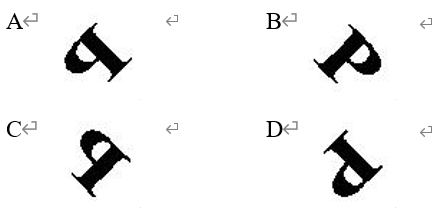
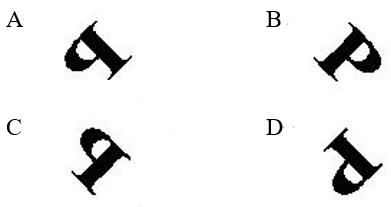
Fix Optics Ch.3 quiz content and figures for nine MCQ items.
Restore missing stems and answer options, add Ch.3.4 Q4 and Ch.3.6 Q2 figures, and refresh Ch.3.1 Q5-2 crop in the hub quiz package.

diff --git a/public/optics-ch3-quiz/js/quiz.bundle.js b/public/optics-ch3-quiz/js/quiz.bundle.js
@@ -1,5 +1,5 @@
 (() => {
-  // ../Optics/Quiz/optics-ch3/js/quizData.js
+  // ../js/quizData.js
   var QUIZ_SECTIONS = [
     {
       "id": "reflection",
@@ -40,10 +40,10 @@
     { "id": "ch32-f01", "section": "refraction-snells-law", "difficulty": "Applied", "stem": "The figure shows a light ray passing through three media X, Y and Z. Which of the following statements about the three media are correct? (1)Z is optically denser than X. (2)Light travels the fastest in X. (3)Y has the greatest refractive index.", "options": [{ "key": "A", "text": "(1) and (2) only" }, { "key": "B", "text": "(1) and (3) only" }, { "key": "C", "text": "(2) and (3) only" }, { "key": "D", "text": "(1), (2) and (3)" }], "answer": "D", "hint": "Let i1, i2 and r1, r2 be the angles of incidence and angles of refractions in the 1st and the 2nd refraction. r1 = i2 1st refraction: nX sin i1 = nY sin r1 2nd refraction: nZ sin r2 = nY sin i2 = nY sin r1 = nX sin i1 i1 r2 sin i1 sin r2 nX nZ \u2234 (1) is correct. i1 r1 sin i1 sin r1 nX nY The refractive index of X is the", "image": { "src": "./assets/ch32-f01-fig.png", "alt": "Diagram for ch32-f01", "caption": "Fig \xB7 ch32-f01" } },
     { "id": "ch32-f02", "section": "refraction-snells-law", "difficulty": "Applied", "stem": "The figure shows a light ray refracted at the boundary between medium X and medium Y. The refractive index of X is 1.77. What is the refractive index of Y?", "options": [{ "key": "A", "text": "1.16" }, { "key": "B", "text": "1.53" }, { "key": "C", "text": "1.70" }, { "key": "D", "text": "2.05" }], "answer": "B", "hint": "What is the refractive index of Y?", "image": { "src": "./assets/ch32-f02-fig.png", "alt": "Diagram for ch32-f02", "caption": "Fig \xB7 ch32-f02" } },
     { "id": "ch32-f03", "section": "refraction-snells-law", "difficulty": "Standard", "stem": "Which of the following are examples of refraction? (1)A chopstick appears bent when dipped in water. (2)A distorted image of a tree is observed on a ruffled water surface. (3)A goldfish in a tank appears nearer and bigger than it really is.", "options": [{ "key": "A", "text": "(1) and (2) only" }, { "key": "B", "text": "(1) and (3) only" }, { "key": "C", "text": "(2) and (3) only" }, { "key": "D", "text": "(1), (2) and (3)" }], "answer": "B", "hint": "Which of the following are examples of refraction? (1)A chopstick appears bent when dipped in water. (2)A distorted image of a tree is observed on a ruffled water surface. (3)A gol" },
-    { "id": "ch32-f04", "section": "refraction-snells-law", "difficulty": "Applied", "stem": "What is the refractive index of ?", "options": [{ "key": "A", "text": "Option A" }, { "key": "B", "text": "Option B" }, { "key": "C", "text": "Option C" }, { "key": "D", "text": "Option D" }], "answer": "A", "hint": "What is the refractive index of ?", "image": { "src": "./assets/ch32-f04-fig.png", "alt": "Diagram for ch32-f04", "caption": "Fig \xB7 ch32-f04" } },
+    { "id": "ch32-f04", "section": "refraction-snells-law", "difficulty": "Applied", "stem": "The following figure shows a light ray travelling from medium X to a vacuum. What is the refractive index of medium X?", "options": [{ "key": "A", "text": "sin \u03B2 / cos \u03B8" }, { "key": "B", "text": "cos \u03B8 / sin \u03B2" }, { "key": "C", "text": "sin \u03B8 / sin \u03B2" }, { "key": "D", "text": "cos \u03B2 / sin \u03B8" }], "answer": "A", "hint": "What is the refractive index of ?", "image": { "src": "./assets/ch32-f04-fig.png", "alt": "Diagram for ch32-f04", "caption": "Fig \xB7 ch32-f04" } },
     { "id": "ch32-f05", "section": "refraction-snells-law", "difficulty": "Standard", "stem": "The figure shows a light ray travelling from medium Y to medium X. What is the angle of refraction?", "options": [{ "key": "A", "text": "10.5" }, { "key": "B", "text": "18.1" }, { "key": "C", "text": "21.5" }, { "key": "D", "text": "26.1" }], "answer": "C", "hint": "What is the angle of refraction?", "image": { "src": "./assets/ch32-f05-fig.png", "alt": "Diagram for ch32-f05", "caption": "Fig \xB7 ch32-f05" } },
     { "id": "ch32-f06", "section": "refraction-snells-law", "difficulty": "Applied", "stem": "A ray of light travels from medium X to medium Y as shown. The speed of light in air and medium X are 3 \xD7 10\u2078 m s\u207B\xB9 and 2.5 \xD7 10\u2078 m s\u207B\xB9 respectively. Find the refractive index of medium Y.", "options": [{ "key": "A", "text": "1.27" }, { "key": "B", "text": "1.29" }, { "key": "C", "text": "1.52" }, { "key": "D", "text": "1.83" }], "answer": "D", "hint": "Find the refractive index of . 4025medium Xmedium Y4025medium Xmedium Y", "image": { "src": "./assets/ch32-f06-fig.png", "alt": "Diagram for ch32-f06", "caption": "Fig \xB7 ch32-f06" } },
-    { "id": "ch32-f07", "section": "refraction-snells-law", "difficulty": "Foundation", "stem": "Which of the following statements about the laws of refraction is/are correct? (1)The angle of refraction r is always equal to the angle of incidence i. (2)The ratio of the sine of the angle of incidence i to the sine of the angle of refraction r is always equal to 1, i.e. . (3)The incident ray, the refracted ray and the normal all lie in the same plane.", "options": [{ "key": "A", "text": "(3) only" }, { "key": "B", "text": "(1) and (2) only" }, { "key": "C", "text": "(2) and (3) only" }, { "key": "D", "text": "(1), (2) and (3)" }], "answer": "A", "hint": "Which of the following statements about the laws of refraction is/are correct? (1)The angle of refraction r is always equal to the angle of incidence i. (2)The ratio of the sine of" },
+    { "id": "ch32-f07", "section": "refraction-snells-law", "difficulty": "Foundation", "stem": "Which of the following statements about the laws of refraction is/are correct? (1)The angle of refraction r is always equal to the angle of incidence i. (2)The ratio of the sine of the angle of incidence i to the sine of the angle of refraction r is always equal to 1, i.e. sin i / sin r = 1. (3)The incident ray, the refracted ray and the normal all lie in the same plane.", "options": [{ "key": "A", "text": "(3) only" }, { "key": "B", "text": "(1) and (2) only" }, { "key": "C", "text": "(2) and (3) only" }, { "key": "D", "text": "(1), (2) and (3)" }], "answer": "A", "hint": "Which of the following statements about the laws of refraction is/are correct? (1)The angle of refraction r is always equal to the angle of incidence i. (2)The ratio of the sine of" },
     { "id": "ch32-f08", "section": "refraction-snells-law", "difficulty": "Standard", "stem": "Three light rays enter an air bubble in water. C is the centre of the bubble. Which of the paths shown below is/are correct?", "options": [{ "key": "A", "text": "(2) only" }, { "key": "B", "text": "(1) and (2) only" }, { "key": "C", "text": "(1) and (3) only" }, { "key": "D", "text": "(1), (2) and (3)" }], "answer": "B", "hint": "Three light rays enter an air bubble in water. C is the centre of the bubble. Which of the paths shown below is/are correct? water air water air", "image": { "src": "./assets/ch32-f08-fig.png", "alt": "Diagram for ch32-f08", "caption": "Fig \xB7 ch32-f08" } },
     { "id": "ch32-f09", "section": "refraction-snells-law", "difficulty": "Standard", "stem": "The figure below shows the apparent position of a goldfish as seen by an observer above water. Where is the actual position of the goldfish?", "options": [{ "key": "A", "text": "Option A" }, { "key": "B", "text": "Option B" }, { "key": "C", "text": "Option C" }, { "key": "D", "text": "Option D" }], "answer": "D", "hint": "Where is the actual position of the goldfish? observer's eyeapparent position of goldfishobserver's eyeapparent position of goldfish observer's eye apparent position of goldfish ob", "image": { "src": "./assets/ch32-f09-fig.png", "alt": "Diagram for ch32-f09", "caption": "Fig \xB7 ch32-f09" } },
     { "id": "ch32-f10", "section": "refraction-snells-law", "difficulty": "Foundation", "stem": "Which of the following statements about this phenomenon is/are correct? (1)White light is composed of a mixture of colours. (2)Different colours of light travel at different speeds in glass. (3)Green light is refracted more than red light in passing through the prism.", "options": [{ "key": "A", "text": "(1) only" }, { "key": "B", "text": "(1) and (2) only" }, { "key": "C", "text": "(2) and (3) only" }, { "key": "D", "text": "(1), (2) and (3)" }], "answer": "D", "hint": "White light is composed of a mixture of coloured lights. A beam of white light is dispersed into lights of different colours when it passes through a glass prism as lights of different colours travel at different speeds in glass. \u2234 (1) and (2) are correct. Green light is refracted more than red light in passing through" },
@@ -59,8 +59,8 @@
     { "id": "ch33-t10", "section": "total-internal-reflection", "difficulty": "Applied", "stem": "As shown below, a small fish hides under the centre of a floating circular dish with a diameter of 2 m. If the fish moves vertically downwards from the water surface, how far can it move down the water before somebody above the water can see it? Given: refractive index of water = 1.33", "options": [{ "key": "A", "text": "0.53 m" }, { "key": "B", "text": "0.66 m" }, { "key": "C", "text": "0.88 m" }, { "key": "D", "text": "1.14 m" }], "answer": "C", "hint": "Light from the fish is totally internally reflected when the angle of incidence is larger than the critical angle. nw sin w= na sin a 1.33 sin C = 1 sin 90 Let d be the maximum distance that the fish can move down before somebody above the water can see it. tan 48.8 = d = 0.88 m", "image": { "src": "./assets/ch33-t10-fig.png", "alt": "Diagram for ch33-t10", "caption": "Fig \xB7 ch33-t10" } },
     { "id": "ch34-c01", "section": "convex-lens", "difficulty": "Applied", "stem": "Which of the following statements about lens L shown in the figure below is/are correct? (1)Lens L is a convex lens. (2)Lens L has only one principal focus. (3)The focal length of lens L equals distance d.", "options": [{ "key": "A", "text": "(1) only" }, { "key": "B", "text": "(3) only" }, { "key": "C", "text": "(1) and (2) only" }, { "key": "D", "text": "(1), (2) and (3)" }], "answer": "A", "hint": "Which of the following statements about lens L shown in the figure below is/are correct? Ld Ld d d (1)Lens L is a . (2)Lens L has only one principal focus. (3)The focal length of l", "image": { "src": "./assets/ch34-c01-fig.png", "alt": "Diagram for ch34-c01", "caption": "Fig \xB7 ch34-c01" } },
     { "id": "ch34-c02", "section": "convex-lens", "difficulty": "Standard", "stem": "In the figure below, lens L is a convex lens and F is its principal focus. Which of the rays is wrongly drawn?", "options": [{ "key": "A", "text": "P" }, { "key": "B", "text": "Q" }, { "key": "C", "text": "R" }, { "key": "D", "text": "S" }], "answer": "A", "hint": "FLPQRS FLPQRS", "image": { "src": "./assets/ch34-c02-fig.png", "alt": "Diagram for ch34-c02", "caption": "Fig \xB7 ch34-c02" } },
-    { "id": "ch34-c03", "section": "convex-lens", "difficulty": "Applied", "stem": "An object is away from a . The focal length of the lens is . The image formed is", "options": [{ "key": "A", "text": "real, erect and magnified." }, { "key": "B", "text": "virtual, inverted and diminished." }, { "key": "C", "text": "real, inverted and magnified." }, { "key": "D", "text": "virtual, erect and magnified." }], "answer": "D", "hint": "An object is away from a . The focal length of the lens is . The image formed is", "image": { "src": "./assets/ch34-c03-fig.png", "alt": "Diagram for ch34-c03", "caption": "Fig \xB7 ch34-c03" } },
-    { "id": "ch34-c04", "section": "convex-lens", "difficulty": "Standard", "stem": "P is an emergent ray from a lens as shown below. F and F' are the principal foci of the lens. Which of the following rays is a possible incident ray?", "options": [{ "key": "A", "text": "Ray w" }, { "key": "B", "text": "Ray x" }, { "key": "C", "text": "Ray y" }, { "key": "D", "text": "Ray z" }], "answer": "A", "hint": "Which of the following rays is a possible incident ray?" },
+    { "id": "ch34-c03", "section": "convex-lens", "difficulty": "Applied", "stem": "An object is 10 cm away from a convex lens. The focal length of the lens is 15 cm. The image formed is", "options": [{ "key": "A", "text": "real, erect and magnified." }, { "key": "B", "text": "virtual, inverted and diminished." }, { "key": "C", "text": "real, inverted and magnified." }, { "key": "D", "text": "virtual, erect and magnified." }], "answer": "D", "hint": "An object is away from a . The focal length of the lens is . The image formed is", "image": { "src": "./assets/ch34-c03-fig.png", "alt": "Diagram for ch34-c03", "caption": "Fig \xB7 ch34-c03" } },
+    { "id": "ch34-c04", "section": "convex-lens", "difficulty": "Standard", "stem": "P is an emergent ray from a lens as shown below. F and F' are the principal foci of the lens. Which of the following rays is a possible incident ray?", "options": [{ "key": "A", "text": "Ray w" }, { "key": "B", "text": "Ray x" }, { "key": "C", "text": "Ray y" }, { "key": "D", "text": "Ray z" }], "answer": "A", "hint": "Which of the following rays is a possible incident ray?", "image": { "src": "./assets/ch34-c04-fig.png", "alt": "Diagram for ch34-c04", "caption": "Fig \xB7 ch34-c04" } },
     { "id": "ch34-c05", "section": "convex-lens", "difficulty": "Foundation", "stem": "Which of the following statements about the image formed by a is/are correct? (1)If the image is virtual, it must be erect. (2)If the image is real, it can be either erect or inverted. (3)If the image is real, it can be either magnified or diminished.", "options": [{ "key": "A", "text": "(1) only" }, { "key": "B", "text": "(1) and (3) only" }, { "key": "C", "text": "(2) and (3) only" }, { "key": "D", "text": "(1), (2) and (3)" }], "answer": "B", "hint": "Which of the following statements about the image formed by a is/are correct? (1)If the image is virtual, it must be erect. (2)If the image is real, it can be either erect or inver" },
     { "id": "ch34-c06", "section": "convex-lens", "difficulty": "Applied", "stem": "Which of the following statements is/are correct? (1)The lens is a . (2)If the lens is moved further away from the object, the image will become smaller. (3)If the lens is replaced by the same type of lens with a shorter focal length, the image will become smaller.", "options": [{ "key": "A", "text": "(1) only" }, { "key": "B", "text": "(1) and (2) only" }, { "key": "C", "text": "(2) and (3) only" }, { "key": "D", "text": "(1), (2) and (3)" }], "answer": "D", "hint": "The image is real as it can be captured on a screen. Only a can form a magnified/real image. A magnified real image is formed when the object distance lies between f and 2f, where f is the focal length of the lens." },
     { "id": "ch34-c07", "section": "convex-lens", "difficulty": "Standard", "stem": "If F and F' are the principal foci of a convex lens, which of the following ray diagrams is/are incorrect? (1) (2) (3)", "options": [{ "key": "A", "text": "(3) only" }, { "key": "B", "text": "(1) and (2) only" }, { "key": "C", "text": "(2) and (3) only" }, { "key": "D", "text": "(1), (2) and (3)" }], "answer": "D", "hint": "If F and F' are the principal foci of a , which of the following ray diagrams is/are incorrect? (1) (2) (3)", "image": { "src": "./assets/ch34-c07-fig.png", "alt": "Diagram for ch34-c07", "caption": "Fig \xB7 ch34-c07" } },
@@ -72,24 +72,24 @@
     { "id": "ch35-m03", "section": "magnification-lens-formula", "difficulty": "Standard", "stem": "An object is placed 5 cm in front of a convex lens with a focal length of 3 cm. In applying the lens formula to find the position of the image, which of the following statements is/are correct? (1)f is 3 cm. (2)u is +5 cm. (3)The image is 1.875 cm from the lens on the same side as the object.", "options": [{ "key": "A", "text": "(2) only" }, { "key": "B", "text": "(1) and (3) only" }, { "key": "C", "text": "(2) and (3) only" }, { "key": "D", "text": "(1), (2) and (3)" }], "answer": "A", "hint": "f is positive for a . Therefore, f is + . \u2234 (1) is incorrect. u is always positive. \u2234 (2) is correct." },
     { "id": "ch35-m04", "section": "magnification-lens-formula", "difficulty": "Applied", "stem": "An object 7 cm tall is placed in front of a lens and the image formed is 5 cm tall. Which of the following may be the lens used? (1)Convex lens of focal length 2.92 cm (2)Convex lens of focal length 17.5 cm (3)Concave lens of focal length 2.92 cm (4)Concave lens of focal length 17.5 cm", "options": [{ "key": "A", "text": "(3) only" }, { "key": "B", "text": "(2) and (3) only" }, { "key": "C", "text": "(1) and (4) only" }, { "key": "D", "text": "(1), (2), (3) and (4)" }], "answer": "D", "hint": "Let f be the foal length. If the lens is convex and the object distance is greater than 2f, a diminished image is formed. Since the object distance is not given, (1) and (2) may be used." },
     { "id": "ch35-m05", "section": "magnification-lens-formula", "difficulty": "Applied", "stem": "What is the focal length of the lens?", "options": [{ "key": "A", "text": "4 cm" }, { "key": "B", "text": "6 cm" }, { "key": "C", "text": "8 cm" }, { "key": "D", "text": "30 cm" }], "answer": "B", "hint": "What is the focal length of the lens?", "image": { "src": "./assets/ch35-m05-fig.png", "alt": "Diagram for ch35-m05", "caption": "Fig \xB7 ch35-m05" } },
-    { "id": "ch35-m06", "section": "magnification-lens-formula", "difficulty": "Standard", "stem": "Which of the following may be the distance between the image and the object? (1) (2) (3)", "options": [{ "key": "A", "text": "(3) only" }, { "key": "B", "text": "(1) and (3) only" }, { "key": "C", "text": "(2) and (3) only" }, { "key": "D", "text": "(1), (2) and (3)" }], "answer": "B", "hint": "u = = = Since the image is magnified, the lens must be convex. There are two scenarios the image can be formed. Scenario 1: If the object distance is between f and 2f, the image and the object are on opposite sides of the lens. Scenario 2: If the object distance is smaller than f, the image and the object are on the sa" },
+    { "id": "ch35-m06", "section": "magnification-lens-formula", "difficulty": "Standard", "stem": "The magnification of an image is 2, and the distance between the image and the lens is 8 cm. Which of the following may be the distance between the image and the object? (1)4 cm (2)8 cm (3)12 cm", "options": [{ "key": "A", "text": "(3) only" }, { "key": "B", "text": "(1) and (3) only" }, { "key": "C", "text": "(2) and (3) only" }, { "key": "D", "text": "(1), (2) and (3)" }], "answer": "B", "hint": "u = = = Since the image is magnified, the lens must be convex. There are two scenarios the image can be formed. Scenario 1: If the object distance is between f and 2f, the image and the object are on opposite sides of the lens. Scenario 2: If the object distance is smaller than f, the image and the object are on the sa" },
     { "id": "ch35-m07", "section": "magnification-lens-formula", "difficulty": "Applied", "stem": "In the figure below, the positions of an object and its image formed by a convex lens are shown. The focal length of the lens is", "options": [{ "key": "A", "text": "1 cm, 0.75 cm" }, { "key": "B", "text": "1 cm, 1.5 cm" }, { "key": "C", "text": "9 cm, 2.25 cm" }, { "key": "D", "text": "9 cm, 4.5 cm" }], "answer": "D", "hint": "An object is placed in front of a lens and an erect image is formed from the lens. Which of the following is the correct description of the lens? Focal length Type of the lens diverging lens converging lens diverging lens", "image": { "src": "./assets/ch35-m07-fig.png", "alt": "Diagram for ch35-m07", "caption": "Fig \xB7 ch35-m07" } },
-    { "id": "ch35-m08", "section": "magnification-lens-formula", "difficulty": "Standard", "stem": "converging lens", "options": [{ "key": "A", "text": "Option A" }, { "key": "B", "text": "Option B" }, { "key": "C", "text": "Option C" }, { "key": "D", "text": "Option D" }], "answer": "C", "hint": "Since the image is erect and diminished, the lens is diverging (concave) and the image is virtual. The focal length of the lens is . 9.A student holds a lens above a piece of paper. The image of the letters 'AT' is shown in the figure below. Its magnification is 3. PHYSICS AT WORKlensATPHYSICS AT WORKlensAT" },
+    { "id": "ch35-m08", "section": "magnification-lens-formula", "difficulty": "Standard", "stem": "An object is placed 10 cm in front of a lens and an erect image is formed 6 cm from the lens. Which of the following is the correct description of the lens?", "options": [{ "key": "A", "text": "3.75 cm, diverging lens" }, { "key": "B", "text": "3.75 cm, converging lens" }, { "key": "C", "text": "15 cm, diverging lens" }, { "key": "D", "text": "15 cm, converging lens" }], "answer": "C", "hint": "Since the image is erect and diminished, the lens is diverging (concave) and the image is virtual. The focal length of the lens is . 9.A student holds a lens above a piece of paper. The image of the letters 'AT' is shown in the figure below. Its magnification is 3. PHYSICS AT WORKlensATPHYSICS AT WORKlensAT" },
     { "id": "ch35-m09", "section": "magnification-lens-formula", "difficulty": "Applied", "stem": "The figure shows a lens used in a Physics at Work experiment. Find the image distance and the focal length of the lens.", "options": [{ "key": "A", "text": "1 cm, 0.75 cm" }, { "key": "B", "text": "1 cm, 1.5 cm" }, { "key": "C", "text": "9 cm, 2.25 cm" }, { "key": "D", "text": "9 cm, 4.5 cm" }], "answer": "D", "hint": "Since the image is erect and magnified, the lens is convex. image distance = mu = 3 3 =", "image": { "src": "./assets/ch35-m09-fig.png", "alt": "Diagram for ch35-m09", "caption": "Fig \xB7 ch35-m09" } },
-    { "id": "ch35-m10", "section": "magnification-lens-formula", "difficulty": "Standard", "stem": "How far is the object from the lens?", "options": [{ "key": "A", "text": "4 cm" }, { "key": "B", "text": "5.33 cm" }, { "key": "C", "text": "12 cm" }, { "key": "D", "text": "16 cm" }], "answer": "D", "hint": "For this object, The object is from the lens." },
+    { "id": "ch35-m10", "section": "magnification-lens-formula", "difficulty": "Standard", "stem": "A luminous point object is placed 3 cm above the principal axis of a converging lens of focal length 10 cm. Its image is 5 cm below the axis. How far is the object from the lens?", "options": [{ "key": "A", "text": "4 cm" }, { "key": "B", "text": "5.33 cm" }, { "key": "C", "text": "12 cm" }, { "key": "D", "text": "16 cm" }], "answer": "D", "hint": "For this object, The object is from the lens." },
     { "id": "ch36-v01", "section": "concave-lens", "difficulty": "Foundation", "stem": "Which of the following statements about lenses is/are correct? (1)Convex and concave lenses form images by refraction. (2)Convex lenses are thinner in the middle. (3)Concave lenses are diverging lenses.", "options": [{ "key": "A", "text": "(1) only" }, { "key": "B", "text": "(1) and (3) only" }, { "key": "C", "text": "(2) and (3) only" }, { "key": "D", "text": "(1), (2) and (3)" }], "answer": "B", "hint": "Light rays are bent due to refraction when entering and leaving a lens. \u2234 (1) is correct. \u2234 (2) is incorrect." },
-    { "id": "ch36-v02", "section": "concave-lens", "difficulty": "Standard", "stem": "In the figure below, lens L is a concave lens and F' is its principal focus. Which of the rays is wrongly drawn?", "options": [{ "key": "A", "text": "P" }, { "key": "B", "text": "Q" }, { "key": "C", "text": "R" }, { "key": "D", "text": "S" }], "answer": "B", "hint": "In the figure below, lens L is a concave lens and F' is its principal focus. Which of the rays is wrongly drawn? LF'PQRS LF'PQRS F' F'" },
+    { "id": "ch36-v02", "section": "concave-lens", "difficulty": "Standard", "stem": "In the figure below, lens L is a concave lens and F' is its principal focus. Which of the rays is wrongly drawn?", "options": [{ "key": "A", "text": "P" }, { "key": "B", "text": "Q" }, { "key": "C", "text": "R" }, { "key": "D", "text": "S" }], "answer": "B", "hint": "In the figure below, lens L is a concave lens and F' is its principal focus. Which of the rays is wrongly drawn? LF'PQRS LF'PQRS F' F'", "image": { "src": "./assets/ch36-v02-fig.png", "alt": "Diagram for ch36-v02", "caption": "Fig \xB7 ch36-v02" } },
     { "id": "ch36-v03", "section": "concave-lens", "difficulty": "Standard", "stem": "Which of the following correctly describe the nature of an image formed by a concave lens? (1)Erect (2)Magnified (3)Virtual", "options": [{ "key": "A", "text": "(1) only" }, { "key": "B", "text": "(3) only" }, { "key": "C", "text": "(1) and (3) only" }, { "key": "D", "text": "(1), (2) and (3)" }], "answer": "C", "hint": "Which of the following correctly describe the nature of an image formed by a concave lens? (1)Erect (2)Magnified (3)Virtual" },
     { "id": "ch36-v04", "section": "concave-lens", "difficulty": "Standard", "stem": "The image formed by a concave lens must be", "options": [{ "key": "A", "text": "real, erect and magnified." }, { "key": "B", "text": "real, erect and diminished." }, { "key": "C", "text": "virtual, inverted and magnified." }, { "key": "D", "text": "virtual, erect and diminished." }], "answer": "D", "hint": "The image formed by a concave lens must be" },
     { "id": "ch36-v05", "section": "concave-lens", "difficulty": "Applied", "stem": "An object is put in front of a lens and a virtual image is formed. The figure below shows the positions of the object and the image. What is the focal length of the lens?", "options": [{ "key": "A", "text": "5 cm" }, { "key": "B", "text": "10 cm" }, { "key": "C", "text": "15 cm" }, { "key": "D", "text": "20 cm" }], "answer": "C", "hint": "Only a concave lens can form an erect and diminished image, so both the object and its image are on the same side of the lens.", "image": { "src": "./assets/ch36-v05-fig.png", "alt": "Diagram for ch36-v05", "caption": "Fig \xB7 ch36-v05" } },
     { "id": "ch36-v06", "section": "concave-lens", "difficulty": "Standard", "stem": "F and F' are the principal foci of a concave lens. Which of the following ray diagrams is/are incorrect? (1) (2) (3)", "options": [{ "key": "A", "text": "(2) only" }, { "key": "B", "text": "(1) and (3) only" }, { "key": "C", "text": "(2) and (3) only" }, { "key": "D", "text": "(1), (2) and (3)" }], "answer": "D", "hint": "Only incident rays parallel to the will bend after passing through the lens so that they appear to come from the principal focus F'. \u2234 (1), (2) and (3) are incorrect. 7. In the following diagram, intervals AB, BC, CD, DE and EF are of equal length. An object is placed at O. When a lens is put in front of the object, an", "image": { "src": "./assets/ch36-v06-fig.png", "alt": "Diagram for ch36-v06", "caption": "Fig \xB7 ch36-v06" } },
     { "id": "ch36-v07", "section": "concave-lens", "difficulty": "Standard", "stem": "In the following diagram, intervals AB, BC, CD, DE and EF are of equal length. An object is placed at O. When a lens is put in front of the object, an image is formed at I. Which of the following show(s) the possible position(s), type(s) and focal length(s) of the lens? (1)convex lens, about 1 interval (2)concave lens, about 2 intervals (3)convex lens, about 1 interval", "options": [{ "key": "A", "text": "(1) only" }, { "key": "B", "text": "(2) only" }, { "key": "C", "text": "(1) and (3) only" }, { "key": "D", "text": "(2) and (3) only" }], "answer": "B", "hint": "about 1 intervals", "image": { "src": "./assets/ch36-v07-fig.png", "alt": "Diagram for ch36-v07", "caption": "Fig \xB7 ch36-v07" } },
     { "id": "ch36-v08", "section": "concave-lens", "difficulty": "Foundation", "stem": "Which of the following statements about the image formed by a concave lens is/are correct? (1)It is always between the lens and object. (2)It is always diminished. (3)It will be formed at infinity if the object is located at the focus of the lens.", "options": [{ "key": "A", "text": "(1) only" }, { "key": "B", "text": "(3) only" }, { "key": "C", "text": "(1) and (2) only" }, { "key": "D", "text": "(2) and (3) only" }], "answer": "C", "hint": "Which of the following statements about the image formed by a concave lens is/are correct? (1)It is always between the lens and object. (2)It is always diminished. (3)It will be fo" },
-    { "id": "ch36-v09", "section": "concave-lens", "difficulty": "Applied", "stem": "An object is placed in front of a concave lens and an image is formed. The positions of the image and the lens are shown below. The focal length of the concave lens is 9 cm. The object distance is", "options": [{ "key": "A", "text": "cm." }, { "key": "B", "text": "cm." }, { "key": "C", "text": "cm." }, { "key": "D", "text": "cm." }], "answer": "C", "hint": "The image formed by a concave lens is virtual. Therefore, v = .", "image": { "src": "./assets/ch36-v09-fig.png", "alt": "Diagram for ch36-v09", "caption": "Fig \xB7 ch36-v09" } },
+    { "id": "ch36-v09", "section": "concave-lens", "difficulty": "Applied", "stem": "An object is placed in front of a concave lens and an image is formed. The positions of the image and the lens are shown below. The focal length of the concave lens is 9 cm. The object distance is", "options": [{ "key": "A", "text": "6 cm" }, { "key": "B", "text": "12 cm" }, { "key": "C", "text": "18 cm" }, { "key": "D", "text": "24 cm" }], "answer": "C", "hint": "The image formed by a concave lens is virtual. Therefore, v = .", "image": { "src": "./assets/ch36-v09-fig.png", "alt": "Diagram for ch36-v09", "caption": "Fig \xB7 ch36-v09" } },
     { "id": "ch36-v10", "section": "concave-lens", "difficulty": "Applied", "stem": "In the following diagram, lenses X and Y are made of the same material but have different shapes, while lenses X and Z are made of different materials but have the same shape. Which of the following statements is/are correct? (1)X, Y and Z are diverging lenses. (2)Y has a shorter focal length than X. (3)Z has a shorter focal length than X.", "options": [{ "key": "A", "text": "(2) only" }, { "key": "B", "text": "(3) only" }, { "key": "C", "text": "(2) and (3) only" }, { "key": "D", "text": "(1), (2) and (3)" }], "answer": "D", "hint": "Which of the following statements is/are correct? (1)X, Y and Z are diverging lenses. (2)Y has a shorter focal length than X. (3)Z has a shorter focal length than X.", "image": { "src": "./assets/ch36-v10-fig.png", "alt": "Diagram for ch36-v10", "caption": "Fig \xB7 ch36-v10" } }
   ];
 
-  // ../Optics/Quiz/optics-ch3/js/quizUtils.js
+  // ../js/quizUtils.js
   var QUIZ_UI_LANGS = ["en", "zh", "zh-Hant"];
   function isChineseUI(lang) {
     return lang === "zh" || lang === "zh-Hant";
@@ -264,7 +264,7 @@
     return { en, zh };
   }
 
-  // ../Optics/Quiz/optics-ch3/js/quizSummary.js
+  // ../js/quizSummary.js
   function sectionLabel(id, lang) {
     const row = QUIZ_SECTIONS.find((s) => s.id === id);
     if (!row) return id;
@@ -395,7 +395,7 @@
     panel.innerHTML = html;
   }
 
-  // ../Optics/Quiz/optics-ch3/js/quizExport.js
+  // ../js/quizExport.js
   function figureExportCaptions(q) {
     if (q.images?.length) {
       return q.images.map((img) => img.caption || img.alt || "see notes");
@@ -491,7 +491,7 @@
     window.print();
   }
 
-  // ../Optics/Quiz/optics-ch3/js/quizEffects.js
+  // ../js/quizEffects.js
   function animateSplitText(element) {
     if (!element) return;
     const stemBlocks = element.querySelectorAll(":scope > .stem-block");
@@ -567,7 +567,7 @@
     apply();
   }
 
-  // ../Optics/Quiz/optics-ch3/js/quizApp.js
+  // ../js/quizApp.js
   var UI = {
     en: {
       appSubtitle: "S3 Optics Ch.3 \xB7 Reflection, refraction, lenses \xB7 English UI",

diff --git a/public/optics-ch3-quiz/quiz.html b/public/optics-ch3-quiz/quiz.html
@@ -4,9 +4,6 @@
 <meta charset="utf-8"/>
 <meta content="width=device-width, initial-scale=1.0" name="viewport"/>
 <title>S3 · Optics Ch.3 · Light &amp; Lens</title>
-<link rel="stylesheet" href="../shared/s3phy-tokens.css">
-<link rel="stylesheet" href="../shared/s3phy-embed.css">
-<script src="../shared/s3phy-embed-init.js"></script>
 <link href="https://fonts.googleapis.com/css2?family=Inter:wght@400;600;700&family=Material+Symbols+Outlined:wght,FILL@100..700,0..1&display=swap" rel="stylesheet"/>
 <script src="https://cdn.tailwindcss.com?plugins=forms,container-queries"></script>
 <script id="tailwind-config">